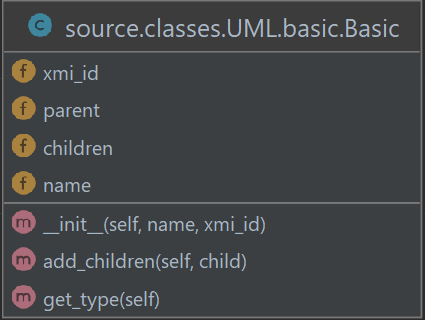
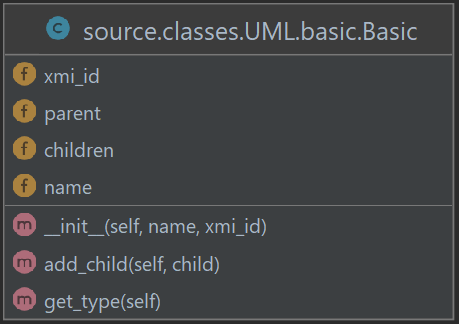
Refactor: rename add_children to add_child

Changed region(s): [[0.0, 0.0, 1.0, 1.0], [0.0306, 0.7812, 0.5812, 0.8438], [0.0306, 0.4062, 0.2753, 0.5]]

diff --git a/source/classes/UML/state_machine.py b/source/classes/UML/state_machine.py
@@ -1,9 +1,8 @@
 from .basic import Basic
 from .transition import Transition
-from .pseudo_state import PseudoState
+from .pseudo_state import PseudoState, PseudoStateTypes
 from .final_state import FinalState
 from .state_entry_behavior import StateEntryBehavior
-from ...types import PseudoStateTypes
 
 
 class StateMachine(Basic):
@@ -11,7 +10,7 @@ class StateMachine(Basic):
         super().__init__(name, xmi_id)
         self.regions = []
 
-    def add_children(self, child):
+    def add_child(self, child):
         if type(child) is Region:
             self.regions.append(child)
         else:
@@ -31,7 +30,7 @@ class Region(Basic):
         self.end_state = None
         self.states = dict()
 
-    def add_children(self, child):
+    def add_child(self, child):
         if type(child) is Transition:
             if child.source in self.transitions:
                 self.transitions[child.source].append(child)
@@ -67,7 +66,7 @@ class State(Basic):
         self.state_machine = None
         self.entry = None
 
-    def add_children(self, child):
+    def add_child(self, child):
         if type(child) is StateMachine:
             if self.state_machine is not None:
                 raise Exception("Expect at most one state machine in a state")

diff --git a/source/classes/UML/uml_class.py b/source/classes/UML/uml_class.py
@@ -21,7 +21,7 @@ class Class(Basic):
         self.constraints = []
         self.type = None
 
-    def add_children(self, child):
+    def add_child(self, child):
         if type(child) is Port or type(child) is Property:
             self.attributes[child.xmi_id] = child
             self.attribute_names[child.name] = child.xmi_id
@@ -29,7 +29,7 @@ class Class(Basic):
         elif type(child) is Class:
             for attr_id, _ in child.attributes.items():
                 self.children_attributes[attr_id] = child
-            super().add_children(child)
+            super().add_child(child)
         elif type(child) is StateMachine:
             if self.state_machine is not None:
                 raise Exception("Expect at most one state machine in a class")

diff --git a/source/sysml_parser.py b/source/sysml_parser.py
@@ -229,7 +229,7 @@ class SysMLParser:
             for child in tag:
                 parsed_child = self.parse_tag(child, element)
                 if parsed_child is not None:
-                    element.add_children(parsed_child)
+                    element.add_child(parsed_child)
                     if hasattr(element, 'xmi_id'):
                         parsed_child.parent = element.xmi_id
 

diff --git a/source/classes/UML/constraint.py b/source/classes/UML/constraint.py
@@ -7,7 +7,7 @@ class Constraint(Basic):
         super().__init__(name, xmi_id)
         self.specification = None
 
-    def add_children(self, child):
+    def add_child(self, child):
         if type(child) is Specification:
             if self.specification is not None:
                 raise Exception("Can only have one specification per Constraint Block")

diff --git a/source/classes/UML/change_event.py b/source/classes/UML/change_event.py
@@ -10,7 +10,7 @@ class ChangeEvent(Basic):
             "body": None,
         }
 
-    def add_children(self, child):
+    def add_child(self, child):
         if type(child) is Specification:
             if self.change_expression["body"] is not None:
                 raise Exception("Cannot have two bodies in a change expression")

diff --git a/source/classes/UML/specification.py b/source/classes/UML/specification.py
@@ -7,7 +7,7 @@ class Specification:
         self.language = "C"
         self.text = None
 
-    def add_children(self, child):
+    def add_child(self, child):
         if type(child) is Body:
             if self.text is not None:
                 raise Exception("Can only have one body in a specification tag")

diff --git a/source/classes/UML/basic.py b/source/classes/UML/basic.py
@@ -5,7 +5,7 @@ class Basic:
         self.children = dict()
         self.parent = None
 
-    def add_children(self, child):
+    def add_child(self, child):
         if child is None:
             raise Exception("Error: trying to add a None child")
         self.children[child.xmi_id] = child

diff --git a/source/classes/UML/property.py b/source/classes/UML/property.py
@@ -9,7 +9,7 @@ class Property(Basic):
         self.type = None
         self.default_value = None
 
-    def add_children(self, child):
+    def add_child(self, child):
         if type(child) is PrimitiveType:
             self.type = child.type
         elif type(child) is DefaultValue:

diff --git a/source/classes/UML/port.py b/source/classes/UML/port.py
@@ -12,7 +12,7 @@ class Port(Basic):
     def add_direction(self, direction):
         self.direction = direction
 
-    def add_children(self, child):
+    def add_child(self, child):
         if type(child) is PrimitiveType:
             self.port_type = child
         else:

diff --git a/source/classes/UML/state_entry_behavior.py b/source/classes/UML/state_entry_behavior.py
@@ -7,7 +7,7 @@ class StateEntryBehavior(Basic):
         super().__init__(name, xmi_id)
         self.body = None
 
-    def add_children(self, child):
+    def add_child(self, child):
         if type(child) is Body:
             self.body = child.text
         else:

diff --git a/source/classes/UML/default_value.py b/source/classes/UML/default_value.py
@@ -12,6 +12,6 @@ class DefaultValue:
             elif value_type == "uml:LiteralInteger":
                 self.value = 0
 
-    def add_children(self, child):
+    def add_child(self, child):
         if type(child) is Body:
             self.value = child.text

diff --git a/source/classes/UML/transition.py b/source/classes/UML/transition.py
@@ -7,7 +7,7 @@ class Transition:
         self.target = target
         self.trigger = None
 
-    def add_children(self, child):
+    def add_child(self, child):
         if type(child) is Trigger:
             self.trigger = child
         else:
